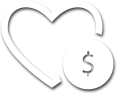
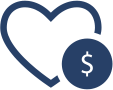
header changes

diff --git a/sites/all/themes/mindbridge/stylesheets/screen.css b/sites/all/themes/mindbridge/stylesheets/screen.css
@@ -1,1 +1,1 @@
-*{margin:0;padding:0}a img{border:0}input,select,textarea,button{font-family:inherit}body{font-family:"open-sans",sans-serif;-webkit-font-smoothing:antialiased;-moz-osx-font-smoothing:grayscale;color:#7e7e7e}body p{padding-bottom:10px;line-height:1.7em}.layout,.not-front #block-system-main>.content,#footer-second,#block-menu-menu-footer-menu .content,#block-block-1 .content,#block-views-news-block-1 .view-content,.views-news .view-content,#block-views-news-block-2 .view-content,#block-views-news-block-2 h2,#block-views-services-page-block .view-content{max-width:940px;margin:0 auto}.partition,#block-views-news-block-2 .views-row,#block-views-services-page-block .view-grouping{border-bottom:1px solid #ccc;padding-bottom:40px;margin-bottom:50px}.clear{clear:both}div.messages{position:relative !important;top:auto !important}h1,h2{text-transform:lowercase}h1{font-size:2.8em}h2{font-size:2.3em}h1,h2,h3,h4,.title{font-family:'GFS Didot', serif;color:black;font-weight:normal}.title{text-transform:inherit}h3{margin-top:30px;font-size:1.3em}a{text-decoration:none;color:#274067}a:hover{text-decoration:none}.hide-button,#block-block-2,.slick-arrow,.slick-dots li button,#block-search-form .form-submit,#block-block-2 .form-submit{font-size:0px;color:transparent;border:0px}.menu li{float:left;margin:0px;padding-top:0px}.menu a{padding:0.9em 0.5em;color:black}.menu li.leaf{list-style:none}#navigation{box-shadow:1px 1px 10px rgba(0,0,0,0.3);position:relative;z-index:2;position:fixed;width:100%;background:rgba(236,236,235,0.9)}#navigation .region-navigation{float:right;text-align:right;position:relative;margin-top:8px}#navigation #block-system-main-menu{float:left}#navigation>div{padding:15px 20px 10px}.backbg{background-size:cover;height:720px;padding:50px 0px;background-position:center -16px}.logoIcon,#node-3 h2:after,.not-front #page-title:after,#block-webform-client-block-10 h2:after{content:url(../images/logo-icon.png);display:block;padding-top:30px}.heading,#node-3 h2,.not-front #page-title,#block-block-1 h2,#block-webform-client-block-10 h2{max-width:400px;margin:0 auto;margin-bottom:30px}.grey-region,#block-block-1,#block-views-news-block-2,#block-views-services-page-block{background-color:#f2f2f2;padding:70px 10px}#node-3,.not-front #block-system-main>.content{text-align:center;padding:60px 10px;padding-top:0px;max-width:700px;margin:0 auto;position:relative}.not-front #block-system-main{margin-top:0px}.not-front #block-system-main:before{height:500px;top:-245px}.not-front #block-system-main>.content{padding-top:0px;padding-bottom:60px}#node-3>h2{display:none}.arc,#block-menu-menu-footer-menu:before,#content:before{background-size:cover;background-position:center;display:block;height:563px;width:100%;position:absolute;top:-90px}#block-system-main{position:relative}.front #block-system-main .node-readmore{display:none}#footer{background:#274067;box-shadow:10px 10px 50px #000;position:relative}#footer .menu{text-align:center;position:relative;top:-130px}#footer .menu:before{content:url(../images/logo-icon.png);display:block;padding-bottom:40px}#footer .menu li{float:none;display:inline-block;margin-left:-15px}#footer .menu li:before{content:"";display:inline-block;width:3px;height:3px;border-radius:20px;background:#274067;vertical-align:middle;margin:0px 10px}#footer .menu li:first-child:before{display:none}#footer-second{position:relative;clear:left;font-size:12px;padding:0px 10px}#footer-second #copyright{float:left}#footer-second #site-by-cci{float:right}#footer-second #site-by-cci a{color:#7e7e7e}#block-menu-menu-footer-menu{position:relative}#block-menu-menu-footer-menu:before{content:"";background-image:url(../images/arc-footer-bg.png);background-position:top;height:330px;top:-214px}#block-menu-menu-footer-menu .content{margin-bottom:-50px;position:relative;border-top:1px solid #cccccc}.page-node-9 #header{background:url(../images/contact-bg.jpg) no-repeat;background-size:cover}#header{margin-bottom:-120px}.front .backbg{padding:50px 0px}.relative-pos,.not-front #page-title,.tabs{position:relative;z-index:1}.not-front #header{height:550px;background:url(../images/contact-bg.jpg) no-repeat;background-size:cover}.not-front #page-title{text-align:center;text-transform:lowercase}div.messages{position:absolute;z-index:1;top:20px;width:100%}#content{position:relative}#content>div>div{position:relative}#content:before{content:"";background-image:url(../images/arc-bg.png)}#block-block-1{text-align:center}#mobile-menu-icon{display:none;position:absolute;height:20px;width:115px;right:20px;top:30px}#mobile-menu-icon a{color:black;display:block;padding-left:70px;line-height:1em}#terms-of-use,#privacy-policy{display:none}#block-block-2{height:30px;width:30px;padding-top:2px}#block-block-2 .content a{height:30px;width:30px;display:block;background:url(../images/search-icon.png) no-repeat}#block-block-2.hide{display:none}.view-banner h1{font-size:2.2em;max-width:500px;margin:0 auto;margin-top:30px;color:white;text-transform:inherit}.view-banner .views-row{position:relative}.view-banner .views-field-body{position:absolute;top:45%;left:50%;text-align:center;transform:translateX(-50%) translateY(-50%);-webkit-transform:translateX(-50%) translateY(-50%);-ms-transform:translateX(-50%) translateY(-50%);-moz-transform:translateX(-50%) translateY(-50%)}.view-banner .views-field-body img{margin:0 auto}.slick-arrow{width:20px;height:30px;cursor:pointer;position:absolute;top:40%;z-index:1}.slick-prev{left:40px;background:url(../images/left-arrow.png) no-repeat}.slick-next{right:40px;background:url(../images/right-arrow.png) no-repeat}.slick-dots{display:block;position:absolute;bottom:230px;width:100%;text-align:center}.slick-dots li{display:inline-block;padding-right:10px}.slick-dots li button{background:white;width:15px;height:15px;border-radius:20px;cursor:pointer}.slick-dots .slick-active button{background:#274067}.view-services{background:url(../images/service-bg3.jpg) no-repeat;background-size:cover;text-align:center;position:relative;background-position:center}.view-services a{color:white}.view-services a span{display:block}.view-services .subtitle{width:211px;font-size:0.9em}.view-services .title{text-shadow:1px 1px 1px rgba(0,0,0,0.5);font-size:2em;color:white}.view-services .view-content{padding:90px 0px}.not-front .view-services .view-content{padding:90px 0px 300px 0px}.view-services .views-row{display:inline-block;vertical-align:middle;max-width:300px;padding:20px}.view-services .serv-icon{display:inline-block;height:100px}.view-services .serv-icon img{padding-bottom:20px}#block-views-news-block-1,.views-news{text-align:center;padding:65px 0px 280px;background:#274067;background-size:cover;background-position:center}#block-views-news-block-1 h2,.views-news h2{color:white;padding-bottom:65px}#block-views-news-block-1 .view-content,.views-news .view-content{max-width:990px}#block-views-news-block-1 .view-content .title a,.views-news .view-content .title a{color:black;font-size:1.3em}#block-views-news-block-1 .view-content a,.views-news .view-content a{color:#7e7e7e}#block-views-news-block-1 .view-content a:hover,.views-news .view-content a:hover{text-decoration:underline}#block-views-news-block-1 .date-posted,.views-news .date-posted{padding:20px 0px 20px 12px}#block-views-news-block-1 .date-posted:after,.views-news .date-posted:after{content:url(../images/ellipse.png);position:absolute;top:-8px;left:-34px}#block-views-news-block-1 .date-posted span,.views-news .date-posted span{display:block;color:white;position:relative;z-index:1;line-height:1.1em}#block-views-news-block-1 .date-posted .date,.views-news .date-posted .date{font-size:1.5em;font-weight:bold}#block-views-news-block-1 .right-block,.views-news .right-block{padding:20px 40px 10px 45px;min-width:320px;text-align:left}#block-views-news-block-1 .views-field,.views-news .views-field{float:left;position:relative;z-index:1}#block-views-news-block-1 .views-field p,.views-news .views-field p{padding-bottom:0px}#block-views-news-block-1 .views-field-created,.views-news .views-field-created{padding:30px 0px;background-color:#274067;color:white}#block-views-news-block-1 .views-row,.views-news .views-row{border:2px solid white;background-color:white;max-width:450px;overflow:hidden;margin-right:30px;margin-bottom:15px;display:inline-block}#block-views-news-block-2 .views-more-link{display:block}#block-views-news-block-2 .views-field{padding:10px 0px}#block-views-news-block-2 .views-field-title{font-size:1.3em}#block-views-news-block-2 h2{padding-bottom:30px;text-transform:inherit}#block-views-news-block-2 .views-row:last-child{margin-bottom:0px;padding-bottom:0px;border-bottom:0px}#block-views-services-page-block .view-grouping:last-child{margin-bottom:0px;border-bottom:0px}#block-views-services-page-block .views-row{padding:0px 10px 20px 0px;display:inline-block;width:48%;vertical-align:top}#block-views-services-page-block .view-grouping-header{font-size:2.3em;padding-bottom:25px;color:black;font-family:'GFS Didot', serif}#block-views-services-page-block img.serv-icon{vertical-align:middle}#block-views-services-page-block .view-grouping-content h3{font-family:"open-sans",sans-serif;font-size:0.9em;color:#7e7e7e;margin-top:0px;margin-bottom:25px}#block-views-services-page-block .views-field-title{font-size:1.1em;color:black;font-family:'GFS Didot', serif}#block-views-services-page-block .views-field-title img{float:left}#block-views-services-page-block .views-field-title .field-content{float:right;width:85%}#block-webform-client-block-10{background-color:#f2f2f2;text-align:center;padding:70px 10px}.webform-client-form{max-width:850px;margin:0 auto}.webform-client-form input,.webform-client-form textarea{font-size:18px;padding:15px 10px;border:1px solid #ccc;border-radius:5px}.webform-client-form .form-actions{text-align:center;position:relative;margin:0 auto;margin-top:15px}.webform-client-form .form-item{position:relative;display:inline-block}.webform-client-form .webform-submit{color:white;background:#274067;text-transform:lowercase;width:250px;margin:0 auto;margin-right:20px;cursor:pointer;-webkit-appearance:none}.webform-client-form .webform-component-textarea{clear:left;width:98%}.webform-client-form .webform-component-textarea+p{display:none}.webform-client-form .webform-component-textarea textarea{width:98%}.webform-client-form ::-webkit-input-placeholder{color:#9b9b9b;font-size:16px}.webform-client-form ::-moz-placeholder{color:#9b9b9b;font-size:16px}.webform-client-form :-ms-input-placeholder{color:#9b9b9b;font-size:16px}.webform-client-form input:-moz-placeholder{color:#9b9b9b;font-size:16px}.webform-client-form input{width:370px;margin-right:20px}#block-search-form,#block-block-2{right:0px;top:0px;float:right}#block-search-form h2,#block-block-2 h2{display:none}#block-search-form .form-text,#block-block-2 .form-text{width:250px;padding:10px;margin-top:24px}#block-search-form .form-submit,#block-block-2 .form-submit{width:30px;height:30px;cursor:pointer;-webkit-appearance:none;background:url(../images/search-icon.png) no-repeat}#block-search-form .contextual-links-wrapper,#block-block-2 .contextual-links-wrapper{display:none !important}#block-search-form .form-type-textfield,#block-block-2 .form-type-textfield{display:none;position:absolute;right:0;top:8px}.expand-textbox #block-search-form .form-type-textfield input,.expand-textbox #block-block-2 .form-type-textfield input{height:30px;border:1px solid #7e7e7e;transition:height 0.5s}#block-search-form{display:none}#block-search-form.active{display:block}@media screen and (max-width: 1020px){.view-services .views-row{margin-right:-10px;padding:0px;vertical-align:top}.view-services .serv-icon{height:65px}.view-services a{display:block}.view-services .subtitle{width:195px}}@media screen and (min-width: 768px){#navigation .region-navigation{display:block !important}}@media screen and (max-width: 767px){h2{font-size:1.8em}#block-block-2{display:none}#block-search-form{display:block}.view-banner .views-field-body{top:40%}.view-banner .views-field-body img{width:300px;height:auto}#header{margin-bottom:-35px}.backbg{height:600px;padding:0px !important}.not-front #header{height:450px}.slick-dots{bottom:180px}#mobile-menu-icon{background:url(../images/mobile-icon.png) no-repeat;background-position:center;display:block}.slick-prev{left:10px}.slick-next{right:10px}.view-banner h1{max-width:240px;font-size:1.7em}#logo{padding-left:20px;display:block;width:200px;position:relative}#logo img{width:100%}#logo,#mobile-menu-icon{z-index:2}#terms-of-use,#privacy-policy{display:block}#navigation .region-navigation{display:none;float:none;top:0px;position:absolute;width:100%;background:white;padding-top:50px;margin-top:0px}#navigation>div{padding:15px 0px 10px}#navigation #block-search-form,#navigation #block-system-main-menu{float:none}#navigation #block-search-form{width:93%;margin:0 auto;border-top:1px solid #e6e6e6;border-bottom:1px solid #e6e6e6;margin-top:20px}#navigation #block-search-form .form-type-textfield{position:relative;display:block}#navigation #block-search-form .form-item{margin:0px}#navigation #block-search-form .form-text{background:#f3f3f3;padding:10px 10px;border-radius:20px;width:93%;border:0px;margin-top:18px}#navigation #block-search-form .form-submit{position:relative;top:-22px}.view-services .serv-icon{height:auto}.view-services .views-row{padding-bottom:20px}.view-services .serv-icon img{width:65px}.view-services .serv-icon+span{width:60%;padding-left:10px}.view-services a>span{float:left;text-align:left}#block-views-news-block-1 .views-row{margin-right:0px}#block-views-news-block-1 .view-content .title a{font-size:1em}#block-views-news-block-1 .right-block{padding:20px 0px 0px 30px;width:226px;min-width:inherit}#block-system-main-menu{right:0px;background:white;width:100%}#block-system-main-menu .content a{border-bottom:1px solid #e6e6e6;padding:25px 0px;display:block}#block-system-main-menu ul.menu{text-align:center;float:none}#block-system-main-menu li{float:none}#footer ul.menu a{font-size:14px;padding:0px}#footer-second{padding:0px 10px;font-size:11px}#block-views-services-page-block .views-row{width:100%}.node-news a{word-wrap:break-word}.view-services{background:url(../images/service-mobile-bg.jpg) no-repeat;background-position:center;background-size:cover;text-shadow:2px 2px 2px rgba(0,0,0,0.5)}}@media screen and (max-width: 450px){div.messages{width:300px !important}#node-9 .content span{display:block}#content:before{background-image:url(../images/arc-mb-bg.png)}.view-services .title{font-size:1.5em}.webform-client-form input{max-width:300px;margin-right:0px}.webform-client-form .webform-component-textarea{max-width:326px;margin:15px auto}#block-menu-menu-footer-menu::before{background-image:url(../images/arc-footer-mb-bg.png);height:346px;top:-230px}#block-menu-menu-footer-menu .content{margin-bottom:-75px}#footer .menu{max-width:300px;margin:0 auto;top:-153px}}
+*{margin:0;padding:0}a img{border:0}input,select,textarea,button{font-family:inherit}body{font-family:"open-sans",sans-serif;-webkit-font-smoothing:antialiased;-moz-osx-font-smoothing:grayscale;color:#7e7e7e}body p{padding-bottom:10px;line-height:1.7em}.layout,.not-front #block-system-main>.content,#footer-second,#block-menu-menu-footer-menu .content,#block-block-1 .content,#block-views-news-block-1 .view-content,.views-news .view-content,#block-views-news-block-2 .view-content,#block-views-news-block-2 h2,#block-views-services-page-block .view-content{max-width:940px;margin:0 auto}.partition,#block-views-news-block-2 .views-row,#block-views-services-page-block .view-grouping{border-bottom:1px solid #ccc;padding-bottom:40px;margin-bottom:50px}.clear{clear:both}div.messages{position:relative !important;top:auto !important}h1,h2{text-transform:lowercase}h1{font-size:2.8em}h2{font-size:2.3em}h1,h2,h3,h4,.title{font-family:'GFS Didot', serif;color:black;font-weight:normal}.title{text-transform:inherit}h3{margin-top:30px;font-size:1.3em}a{text-decoration:none;color:#274067}a:hover{text-decoration:none}.hide-button,#block-block-2,.slick-arrow,.slick-dots li button,#block-search-form .form-submit,#block-block-2 .form-submit{font-size:0px;color:transparent;border:0px}.menu li{float:left;margin:0px;padding-top:0px}.menu a{padding:0.9em 0.5em 0.3em;color:black;position:relative}.menu li.leaf{list-style:none}#navigation{box-shadow:1px 1px 10px rgba(0,0,0,0.3);position:relative;z-index:2;position:fixed;width:100%;background:white;-webkit-transition:all 0.3s ease-in-out 0s}#navigation .region-navigation{float:right;text-align:right;position:relative;margin-top:8px}#navigation #block-system-main-menu{float:left}#navigation .menu a:after{content:"";position:absolute;height:0px;width:100%;left:0;bottom:0px;visibility:hidden;-webkit-transform:scaleX(0);-ms-transform:scaleX(0);transform:scaleX(0);border-bottom:2px solid black;-webkit-transition:all 0.3s ease-in-out 0s;transition:all 0.3s ease-in-out 0s}#navigation .menu a:hover:after{visibility:visible;-webkit-transform:scaleX(1);-ms-transform:scaleX(1);transform:scaleX(1)}#navigation>div{padding:15px 20px 10px}#navigation .logo-white{display:none}#navigation.blue-header{-webkit-transition:all 0.3s ease-in-out 0s;background:#274067}#navigation.blue-header .menu a{color:white}#navigation.blue-header .menu a:hover:after{border-bottom:2px solid white}#navigation.blue-header #logo{display:none}#navigation.blue-header .logo-white{display:inline-block}#navigation.blue-header #block-block-2 .content a{background:url(../images/search-icon-white.png) no-repeat}.backbg{background-size:cover;height:720px;padding:50px 0px;background-position:center -16px}.logoIcon,#node-3 h2:after,.not-front #page-title:after,#block-webform-client-block-10 h2:after{content:url(../images/logo-icon.png);display:block;padding-top:30px}.heading,#node-3 h2,.not-front #page-title,#block-block-1 h2,#block-webform-client-block-10 h2{max-width:400px;margin:0 auto;margin-bottom:30px}.grey-region,#block-block-1,#block-views-news-block-2,#block-views-services-page-block{background-color:#f2f2f2;padding:70px 10px}#node-3,.not-front #block-system-main>.content{text-align:center;padding:60px 10px;padding-top:0px;max-width:700px;margin:0 auto;position:relative}.not-front #block-system-main{margin-top:0px}.not-front #block-system-main:before{height:500px;top:-245px}.not-front #block-system-main>.content{padding-top:0px;padding-bottom:60px}#node-3>h2{display:none}.arc,#block-menu-menu-footer-menu:before,#content:before{background-size:cover;background-position:center;display:block;height:563px;width:100%;position:absolute;top:-90px}#block-system-main{position:relative}.front #block-system-main .node-readmore{display:none}#footer{background:#274067;box-shadow:10px 10px 50px #000;position:relative}#footer .menu{text-align:center;position:relative;top:-130px}#footer .menu:before{content:url(../images/logo-icon.png);display:block;padding-bottom:40px}#footer .menu li{float:none;display:inline-block;margin-left:-15px}#footer .menu li:before{content:"";display:inline-block;width:3px;height:3px;border-radius:20px;background:#274067;vertical-align:middle;margin:0px 10px}#footer .menu li:first-child:before{display:none}#footer-second{position:relative;clear:left;font-size:12px;padding:0px 10px}#footer-second #copyright{float:left}#footer-second #site-by-cci{float:right}#footer-second #site-by-cci a{color:#7e7e7e}#block-menu-menu-footer-menu{position:relative}#block-menu-menu-footer-menu:before{content:"";background-image:url(../images/arc-footer-bg.png);background-position:top;height:330px;top:-214px}#block-menu-menu-footer-menu .content{margin-bottom:-50px;position:relative;border-top:1px solid #cccccc}.page-node-9 #header{background:url(../images/contact-bg.jpg) no-repeat;background-size:cover}#header{margin-bottom:-120px}.front .backbg{padding:50px 0px}.relative-pos,.not-front #page-title,.tabs{position:relative;z-index:1}.not-front #header{height:550px;background:url(../images/contact-bg.jpg) no-repeat;background-size:cover}.not-front #page-title{text-align:center;text-transform:lowercase}div.messages{position:absolute;z-index:1;top:20px;width:100%}#content{position:relative}#content>div>div{position:relative}#content:before{content:"";background-image:url(../images/arc-bg.png)}#block-block-1{text-align:center}#mobile-menu-icon{display:none;position:absolute;height:20px;width:115px;right:20px;top:30px}#mobile-menu-icon a{color:black;display:block;padding-left:70px;line-height:1em}#navigation.blue-header #mobile-menu-icon a{color:white}#terms-of-use,#privacy-policy{display:none}#block-block-2{height:30px;width:30px;padding-top:2px}#block-block-2 .content a{height:30px;width:30px;display:block;background:url(../images/search-icon-blue.png) no-repeat}#block-block-2.hide{display:none}.view-banner h1{font-size:2.2em;max-width:500px;margin:0 auto;margin-top:30px;color:white;text-transform:inherit}.view-banner h2{width:400px;margin:0 auto}.view-banner .views-row{position:relative}.view-banner .views-field-body{position:absolute;top:45%;left:50%;text-align:center;transform:translateX(-50%) translateY(-50%);-webkit-transform:translateX(-50%) translateY(-50%);-ms-transform:translateX(-50%) translateY(-50%);-moz-transform:translateX(-50%) translateY(-50%)}.view-banner .views-field-body img{margin:0 auto}.slick-arrow{width:20px;height:30px;cursor:pointer;position:absolute;top:40%;z-index:1}.slick-prev{left:40px;background:url(../images/left-arrow.png) no-repeat}.slick-next{right:40px;background:url(../images/right-arrow.png) no-repeat}.slick-dots{display:block;position:absolute;bottom:230px;width:100%;text-align:center}.slick-dots li{display:inline-block;padding-right:10px}.slick-dots li button{background:white;width:15px;height:15px;border-radius:20px;cursor:pointer}.slick-dots .slick-active button{background:#274067}.view-services{text-align:center;position:relative}.view-services a{color:#274067}.view-services a span{display:block}.view-services .subtitle{width:211px;font-size:0.9em}.view-services .title{text-shadow:1px 1px 1px rgba(0,0,0,0.5);font-size:2em;color:#274067}.view-services .view-content{padding:0px 0px 90px}.not-front .view-services .view-content{padding:90px 0px 300px 0px}.view-services .views-row{display:inline-block;vertical-align:middle;max-width:300px;padding:20px}.view-services .serv-icon{display:inline-block;height:100px}.view-services .serv-icon img{padding-bottom:20px}#block-views-news-block-1,.views-news{text-align:center;padding:65px 0px 280px;background:#274067;background-size:cover;background-position:center}#block-views-news-block-1 h2,.views-news h2{color:white;padding-bottom:65px}#block-views-news-block-1 .view-content,.views-news .view-content{max-width:990px}#block-views-news-block-1 .view-content .title a,.views-news .view-content .title a{color:black;font-size:1.3em}#block-views-news-block-1 .view-content a,.views-news .view-content a{color:#7e7e7e}#block-views-news-block-1 .view-content a:hover,.views-news .view-content a:hover{text-decoration:underline}#block-views-news-block-1 .date-posted,.views-news .date-posted{padding:20px 0px 20px 12px}#block-views-news-block-1 .date-posted:after,.views-news .date-posted:after{content:url(../images/ellipse.png);position:absolute;top:-8px;left:-34px}#block-views-news-block-1 .date-posted span,.views-news .date-posted span{display:block;color:white;position:relative;z-index:1;line-height:1.1em}#block-views-news-block-1 .date-posted .date,.views-news .date-posted .date{font-size:1.5em;font-weight:bold}#block-views-news-block-1 .right-block,.views-news .right-block{padding:20px 40px 10px 45px;min-width:320px;text-align:left}#block-views-news-block-1 .views-field,.views-news .views-field{float:left;position:relative;z-index:1}#block-views-news-block-1 .views-field p,.views-news .views-field p{padding-bottom:0px}#block-views-news-block-1 .views-field-created,.views-news .views-field-created{padding:30px 0px;background-color:#274067;color:white}#block-views-news-block-1 .views-row,.views-news .views-row{border:2px solid white;background-color:white;max-width:450px;overflow:hidden;margin-right:30px;margin-bottom:15px;display:inline-block}#block-views-news-block-2 .views-more-link{display:block}#block-views-news-block-2 .views-field{padding:10px 0px}#block-views-news-block-2 .views-field-title{font-size:1.3em}#block-views-news-block-2 h2{padding-bottom:30px;text-transform:inherit}#block-views-news-block-2 .views-row:last-child{margin-bottom:0px;padding-bottom:0px;border-bottom:0px}#block-views-services-page-block .view-grouping:last-child{margin-bottom:0px;border-bottom:0px}#block-views-services-page-block .views-row{padding:0px 10px 20px 0px;display:inline-block;width:48%;vertical-align:top}#block-views-services-page-block .view-grouping-header{font-size:2.3em;padding-bottom:25px;color:black;font-family:'GFS Didot', serif}#block-views-services-page-block img.serv-icon{vertical-align:middle}#block-views-services-page-block .view-grouping-content h3{font-family:"open-sans",sans-serif;font-size:0.9em;color:#7e7e7e;margin-top:0px;margin-bottom:25px}#block-views-services-page-block .views-field-title{font-size:1.1em;color:black;font-family:'GFS Didot', serif}#block-views-services-page-block .views-field-title img{float:left}#block-views-services-page-block .views-field-title .field-content{float:right;width:85%}#block-webform-client-block-10{background-color:#f2f2f2;text-align:center;padding:70px 10px}.webform-client-form{max-width:850px;margin:0 auto}.webform-client-form input,.webform-client-form textarea{font-size:18px;padding:15px 10px;border:1px solid #ccc;border-radius:5px}.webform-client-form .form-actions{text-align:center;position:relative;margin:0 auto;margin-top:15px}.webform-client-form .form-item{position:relative;display:inline-block}.webform-client-form .webform-submit{color:white;background:#274067;text-transform:lowercase;width:250px;margin:0 auto;margin-right:20px;cursor:pointer;-webkit-appearance:none}.webform-client-form .webform-component-textarea{clear:left;width:98%}.webform-client-form .webform-component-textarea+p{display:none}.webform-client-form .webform-component-textarea textarea{width:98%}.webform-client-form ::-webkit-input-placeholder{color:#9b9b9b;font-size:16px}.webform-client-form ::-moz-placeholder{color:#9b9b9b;font-size:16px}.webform-client-form :-ms-input-placeholder{color:#9b9b9b;font-size:16px}.webform-client-form input:-moz-placeholder{color:#9b9b9b;font-size:16px}.webform-client-form input{width:370px;margin-right:20px}#block-search-form,#block-block-2{right:0px;top:0px;float:right}#block-search-form h2,#block-block-2 h2{display:none}#block-search-form .form-text,#block-block-2 .form-text{width:250px;padding:10px;margin-top:24px}#block-search-form .form-submit,#block-block-2 .form-submit{width:30px;height:30px;cursor:pointer;-webkit-appearance:none;background:url(../images/search-icon-blue.png) no-repeat}#block-search-form .contextual-links-wrapper,#block-block-2 .contextual-links-wrapper{display:none !important}#block-search-form .form-type-textfield,#block-block-2 .form-type-textfield{display:none;position:absolute;right:0;top:8px}.expand-textbox #block-search-form .form-type-textfield input,.expand-textbox #block-block-2 .form-type-textfield input{height:30px;border:1px solid #7e7e7e;transition:height 0.5s}#block-search-form{display:none}#navigation.blue-header #block-search-form .form-submit{background:url(../images/search-icon-white.png) no-repeat}#block-search-form.active{display:block}@media screen and (max-width: 1020px){.view-services .views-row{margin-right:-10px;padding:0px;vertical-align:top}.view-services .serv-icon{height:65px}.view-services a{display:block}.view-services .subtitle{width:195px}}@media screen and (min-width: 768px){#navigation .region-navigation{display:block !important}}@media screen and (max-width: 767px){h2{font-size:1.8em}#block-block-2{display:none}#block-search-form{display:block}.view-banner .views-field-body{top:40%}.view-banner .views-field-body img{width:300px;height:auto}#header{margin-bottom:-35px}.backbg{height:600px;padding:0px !important}.not-front #header{height:450px}.slick-dots{bottom:180px}#mobile-menu-icon{background:url(../images/mobile-icon.png) no-repeat;background-position:center;display:block}#navigation.blue-header #mobile-menu-icon{background:url(../images/mobile-icon-white.png) no-repeat;background-position:center}.slick-prev{left:10px}.slick-next{right:10px}.view-banner h1{max-width:240px;font-size:1.7em}#logo,#logo-white{padding-left:20px;display:block;width:200px;position:relative}#logo img,#logo-white img{width:100%}#logo,#mobile-menu-icon{z-index:2}#terms-of-use,#privacy-policy{display:block}#navigation .region-navigation{display:none;float:none;top:0px;position:absolute;width:100%;background:white;padding-top:50px;margin-top:0px}#navigation>div{padding:15px 0px 10px}#navigation #block-search-form,#navigation #block-system-main-menu{float:none}#navigation #block-search-form{width:93%;margin:0 auto;border-top:1px solid #e6e6e6;border-bottom:1px solid #e6e6e6;margin-top:20px}#navigation #block-search-form .form-type-textfield{position:relative;display:block}#navigation #block-search-form .form-item{margin:0px}#navigation #block-search-form .form-text{background:#f3f3f3;padding:10px 10px;border-radius:20px;width:93%;border:0px;margin-top:18px}#navigation #block-search-form .form-submit{position:relative;top:-22px}.view-services .serv-icon{height:auto}.view-services .views-row{padding-bottom:20px}.view-services .serv-icon img{width:65px}.view-services .serv-icon+span{width:60%;padding-left:10px}.view-services a>span{float:left;text-align:left}#block-views-news-block-1 .views-row{margin-right:0px}#block-views-news-block-1 .view-content .title a{font-size:1em}#block-views-news-block-1 .right-block{padding:20px 0px 0px 30px;width:226px;min-width:inherit}#block-system-main-menu{right:0px;background:white;width:100%}#block-system-main-menu .content a{border-bottom:1px solid #e6e6e6;padding:25px 0px;display:block}#block-system-main-menu ul.menu{text-align:center;float:none}#block-system-main-menu li{float:none}#footer ul.menu a{font-size:14px;padding:0px}#footer-second{padding:0px 10px;font-size:11px}#block-views-services-page-block .views-row{width:100%}.node-news a{word-wrap:break-word}}@media screen and (max-width: 450px){div.messages{width:300px !important}#node-9 .content span{display:block}#content:before{background-image:url(../images/arc-mb-bg.png)}.view-services .title{font-size:1.5em}.webform-client-form input{max-width:300px;margin-right:0px}.webform-client-form .webform-component-textarea{max-width:326px;margin:15px auto}#block-menu-menu-footer-menu::before{background-image:url(../images/arc-footer-mb-bg.png);height:346px;top:-230px}#block-menu-menu-footer-menu .content{margin-bottom:-75px}#footer .menu{max-width:300px;margin:0 auto;top:-153px}}

diff --git a/sites/all/themes/mindbridge/sass/_main.scss b/sites/all/themes/mindbridge/sass/_main.scss
@@ -95,8 +95,9 @@ a
 
 	a
 	{
-		padding: 0.9em 0.5em;
+		padding: 0.9em 0.5em 0.3em;
 		color: black;
+		position: relative;
 	}
 
 	li.leaf
@@ -113,7 +114,9 @@ a
 	z-index: 2;
 	position: fixed;
 	width: 100%;
-	background: rgba(236,236,235,0.9);
+	background: white;
+	-webkit-transition: all 0.3s ease-in-out 0s;
+
 
 	.region-navigation
 	{
@@ -128,9 +131,72 @@ a
 		float: left;
 	}
 
+	.menu a:after
+	{
+	    content: "";
+	    position: absolute;
+	    height: 0px;
+	    width: 100%;
+	    left: 0;
+	    bottom: 0px;
+	    visibility: hidden;
+	    -webkit-transform: scaleX(0);
+	    -ms-transform: scaleX(0);
+	    transform: scaleX(0);
+	    border-bottom: 2px solid black;
+	    -webkit-transition: all 0.3s ease-in-out 0s;
+	    transition: all 0.3s ease-in-out 0s;
+	}
+
+	.menu a:hover:after
+	{	
+		visibility: visible;
+	    -webkit-transform: scaleX(1);
+	    -ms-transform: scaleX(1);
+	    transform: scaleX(1);
+	}
+
 	&>div{
 
 		padding: 15px 20px 10px;
+	}
+
+	.logo-white
+	{
+		display: none;
+	}
+}
+
+#navigation.blue-header
+{
+	-webkit-transition: all 0.3s ease-in-out 0s;
+	background: $blue;
+
+	.menu a
+	{
+		color: white;
+
+		&:hover:after
+		{	
+			border-bottom: 2px solid white;
+		}
+	}
+
+	#logo
+	{
+		display: none;
+	}
+
+	.logo-white
+	{
+		display: inline-block;
+	}
+
+	#block-block-2
+	{
+		.content a{
+			background: url(../images/search-icon-white.png) no-repeat;
+		}
 	}
 }
 
@@ -424,6 +490,14 @@ div.messages{
 		padding-left: 70px;
 		line-height: 1em;
 	}
+
+	#navigation.blue-header &
+	{
+		a
+		{
+			color: white;
+		}
+	}
 }
 
 #terms-of-use,
@@ -444,10 +518,11 @@ div.messages{
 		height: 30px;
   		width: 30px;
 		display: block;
-		background: url(../images/search-icon.png) no-repeat;
+		background: url(../images/search-icon-blue.png) no-repeat;
 	
 	}
 }
+
 
 #block-block-2.hide
 {

diff --git a/sites/all/themes/mindbridge/js/search-box.js b/sites/all/themes/mindbridge/js/search-box.js
@@ -10,20 +10,18 @@
 				$('#block-search-form').toggleClass('active');
 				$('#block-block-2').toggleClass('hide');
 				$('#search-block-form .form-type-textfield').slideDown();
-			
 			}
 		});
 
-			$("body").click(function(){
-				if($(window).width() > 730)
-				{
-			 	  $("#search-block-form .form-type-textfield").slideUp();
-				  $('#block-search-form').removeClass('active');
-				  $('#block-block-2').removeClass('hide');
-			  	}
-			});
+		$("body").click(function(){
+			if($(window).width() > 730)
+			{
+		 	  $("#search-block-form .form-type-textfield").slideUp();
+			  $('#block-search-form').removeClass('active');
+			  $('#block-block-2').removeClass('hide');
+		  	}
+		});
 	
-
 		// Prevent events from getting pass .popup
 		$("#search-block-form,#block-block-2").click(function(e){
 		  e.stopPropagation();

diff --git a/sites/all/themes/mindbridge/js/script.js b/sites/all/themes/mindbridge/js/script.js
@@ -9,22 +9,24 @@
         $('#navigation').toggleClass('open');
 
     });
-
     /*
-    * anchor top margin
+    * Menu switch
     */
 
-    if(window.location.hash)
-    { 
-       var target = window.location.hash;
-       
-        var $target = $(target);
-        console.log($target);
-        $('html, body').stop().animate({
-          'scrollTop': $target.offset().top-75
-        }, 150);
-    }  
+   $(window).scroll(function(){
+         if($(window).scrollTop()+150 > $('#content').offset().top)
+         {
+            $('#navigation').addClass('blue-header');
+         }
+         else
+         {
+             $('#navigation').removeClass('blue-header');
+         }
+   })
 
+   /*
+   * Anchor scroll top margin
+   */
 
     $('.view-services a[href*=#]').on('click',function (e) 
     {       

diff --git a/sites/all/themes/mindbridge/sass/_responsive.scss b/sites/all/themes/mindbridge/sass/_responsive.scss
@@ -92,6 +92,14 @@
 		display: block;
 	}
 
+	#navigation.blue-header
+	{
+		#mobile-menu-icon{
+			background: url(../images/mobile-icon-white.png) no-repeat;
+			background-position: center;
+		}
+	}
+
 	.slick-prev{
 
 		left: 10px;
@@ -108,7 +116,8 @@
 		font-size: 1.7em;
 	}
 
-	#logo{
+	#logo,
+	#logo-white{
 		padding-left: 20px;
 		display: block;
 		width: 200px;
@@ -133,7 +142,6 @@
 	}
 
 	#navigation{
-
 
 		.region-navigation{
 
@@ -301,14 +309,6 @@
 	.node-news a{
 
 		word-wrap: break-word;
-	}
-
-	.view-services{
-
-		background: url(../images/service-mobile-bg.jpg) no-repeat;
-		background-position: center;
-		background-size: cover;
-		text-shadow: 2px 2px 2px rgba(0,0,0,0.5);
 	}
 }
 

diff --git a/sites/all/themes/mindbridge/sass/_views.scss b/sites/all/themes/mindbridge/sass/_views.scss
@@ -9,6 +9,11 @@
 		text-transform: inherit;
 	}
 
+	h2{
+	    width: 400px;
+	    margin: 0 auto;
+	}
+
 	.views-row{
 		position: relative;
 	}
@@ -81,15 +86,11 @@
 }
 
 .view-services{
-
-	background: url(../images/service-bg3.jpg) no-repeat;
-	background-size: cover;
 	text-align: center;
 	position: relative;
-	background-position: center;
 
 	a{
-		color: white;
+		color: $blue;
 
 		span{
 			display: block;
@@ -104,11 +105,11 @@
 	.title{
 		text-shadow: 1px 1px 1px rgba(0,0,0,0.5);
 		font-size: 2em;
-		color: white;
+		color: $blue;
 	}
 
 	.view-content{
-		padding: 90px 0px;
+		padding: 0px 0px 90px;
 	}
 
 	.view-content{

diff --git a/sites/all/themes/mindbridge/sass/_forms.scss b/sites/all/themes/mindbridge/sass/_forms.scss
@@ -125,7 +125,7 @@
 		height: 30px;
 		cursor: pointer;
 		-webkit-appearance: none;
-		background: url(../images/search-icon.png) no-repeat;
+		background: url(../images/search-icon-blue.png) no-repeat;
 	}
 
 	.contextual-links-wrapper
@@ -155,6 +155,14 @@
 #block-search-form
 {
 	display: none;
+
+	#navigation.blue-header &
+	{	
+		.form-submit
+		{
+			background: url(../images/search-icon-white.png) no-repeat;
+		}
+	}
 
 	&.active
 	{

diff --git a/sites/all/themes/mindbridge/js/background-size.js b/sites/all/themes/mindbridge/js/background-size.js
@@ -1,11 +1,5 @@
 (function($){    
     $(function(){
-
-        $('.view-banner .view-content').slick(
-        {infinite: true,
-        arrows: true,
-        dots: true}); 
-    
         var max1= $('.view-banner .views-row').length;
         for(var i=1; i<=max1; i++)
         {   

diff --git a/sites/all/themes/mindbridge/js/icons.js b/sites/all/themes/mindbridge/js/icons.js
@@ -8,7 +8,6 @@
         }  
 
         $('.view-services .views-row').each(function(){
-
         
             var title = $(this).find('.title').text();
             title = title.slice(0, -1);

diff --git a/sites/all/themes/mindbridge/templates/page.tpl.php b/sites/all/themes/mindbridge/templates/page.tpl.php
@@ -80,6 +80,9 @@
         <a href="<?php print $front_page; ?>" title="<?php print t('Home'); ?>" rel="home" id="logo">
           <img src="/sites/all/themes/mindbridge/images/logo.svg" onerror="this.src='<?php print $logo; ?>'; return this.onerror=null"; alt="<?php print t('Home'); ?>" />
         </a>
+        <a href="<?php print $front_page; ?>" title="<?php print t('Home'); ?>" rel="home" id="logo-white" class='logo-white'>
+          <img src="/sites/all/themes/mindbridge/images/logo-white1.png" alt="<?php print t('Home'); ?>" />
+        </a>
       <?php endif; ?>
       <div id="mobile-menu-icon"><a href="#">menu</a></div>
       <?php print render($page['navigation']); ?>

diff --git a/sites/all/themes/mindbridge/template.php b/sites/all/themes/mindbridge/template.php
@@ -1,0 +1,11 @@
+<?php 
+
+function mindbridge_preprocess_page(&$vars)
+{
+	if(drupal_is_front_page())
+	{
+		 drupal_add_js(drupal_get_path('theme', 'mindbridge') . '/js/slick/slick.js');
+		 drupal_add_js(drupal_get_path('theme', 'mindbridge') . '/js/front-slider.js');
+  	     $vars['scripts'] = drupal_get_js(); // necessary in D7?
+	}
+}
